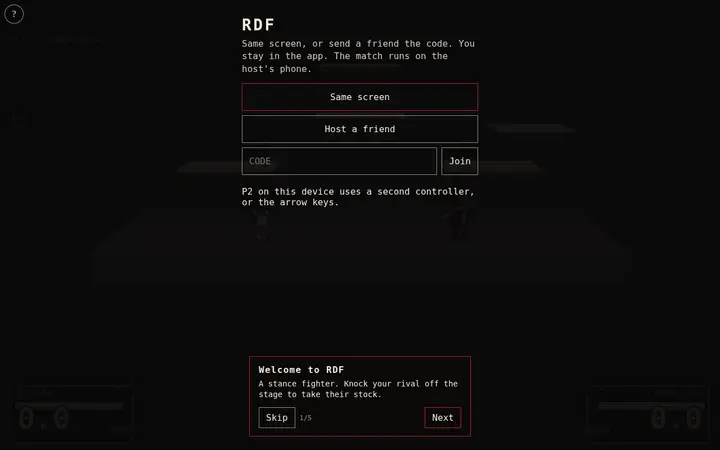
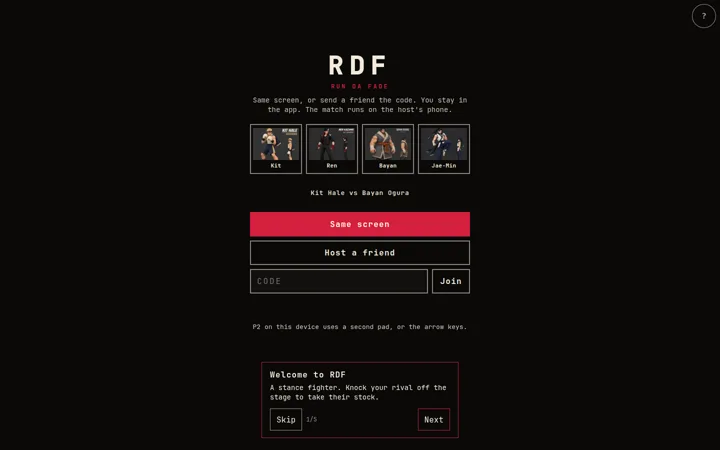
Toy Box: card polish, honest copy, and two recaptured previews
Recapture the near-black BEEP pad and the RDF roster. Fix blurbs
that did not match the live sites. Quieter Soon thumbs, warmer
hover, and a bit more preload. Lockbox crypto untouched.

diff --git a/css/toybox.css b/css/toybox.css
@@ -36,18 +36,21 @@ h1{font-size:clamp(30px,6vw,48px);line-height:1.08;margin:0 0 12px;letter-spacin
 .grid{display:grid;grid-template-columns:repeat(auto-fill,minmax(250px,1fr));gap:16px}
 @media (max-width:720px){.grid{grid-template-columns:1fr 1fr;gap:12px}}
 @media (max-width:400px){.grid{grid-template-columns:1fr;gap:12px}}
-.card{appearance:none;text-align:left;font:inherit;color:inherit;border:1px solid var(--line);background:var(--card);border-radius:var(--r);overflow:hidden;padding:0;cursor:pointer;box-shadow:var(--shadow);transition:transform .28s cubic-bezier(.2,.8,.2,1),box-shadow .28s;display:flex;flex-direction:column;animation:pop .45s cubic-bezier(.2,.8,.2,1) both;animation-delay:calc(var(--i,0)*22ms);content-visibility:auto;contain-intrinsic-size:0 280px;touch-action:manipulation}
-.card:active{transform:scale(.975)}
+.card{appearance:none;text-align:left;font:inherit;color:inherit;border:1px solid var(--line);background:var(--card);border-radius:var(--r);overflow:hidden;padding:0;cursor:pointer;box-shadow:var(--shadow);transition:transform .32s cubic-bezier(.22,.82,.2,1),box-shadow .32s cubic-bezier(.22,.82,.2,1),border-color .25s;display:flex;flex-direction:column;animation:pop .5s cubic-bezier(.22,.82,.2,1) both;animation-delay:calc(min(var(--i,0),8)*20ms);content-visibility:auto;contain-intrinsic-size:0 320px;touch-action:manipulation}
+.card:active{transform:scale(.978)}
 .card:focus-visible,.chip:focus-visible,.btn:focus-visible,.icon-btn:focus-visible,.top-nav a:focus-visible,.foot-links a:focus-visible{outline:3px solid var(--accent);outline-offset:2px}
-@media (hover:hover) and (pointer:fine){.card:hover,.card:focus-visible{transform:translateY(-4px);box-shadow:0 8px 28px color-mix(in srgb,var(--accent) 14%,transparent),var(--shadow)}.card:hover .thumb img,.card:focus-visible .thumb img{transform:scale(1.045)}}
-@keyframes pop{from{opacity:0;transform:translateY(10px) scale(.98)}}
-.thumb{aspect-ratio:16/10;background:linear-gradient(135deg,#f6c38b,#e98b5c 55%,#b8546a);position:relative;overflow:hidden}
-.thumb img{width:100%;height:100%;object-fit:cover;object-position:top;display:block;opacity:0;transition:transform .5s ease,opacity .35s ease}
+@media (hover:hover) and (pointer:fine){.card:hover,.card:focus-visible{transform:translateY(-5px);border-color:color-mix(in srgb,var(--accent) 28%,var(--line));box-shadow:0 10px 32px color-mix(in srgb,var(--accent) 16%,transparent),var(--shadow)}.card:hover .thumb img,.card:focus-visible .thumb img{transform:scale(1.05)}}
+@keyframes pop{from{opacity:0;transform:translateY(12px) scale(.985)}}
+.thumb{aspect-ratio:16/10;background:linear-gradient(145deg,#f6c38b,#e98b5c 52%,#b8546a);position:relative;overflow:hidden}
+.thumb::after{content:"";position:absolute;inset:0;background:linear-gradient(180deg,transparent 62%,rgba(43,29,23,.18));pointer-events:none}
+.thumb img{width:100%;height:100%;object-fit:cover;object-position:top;display:block;opacity:0;transition:transform .55s cubic-bezier(.22,.82,.2,1),opacity .4s ease}
 .thumb img.ready{opacity:1}
-.thumb-empty{display:grid;place-items:center;font-size:30px;font-weight:800;color:rgba(255,255,255,.9);letter-spacing:.04em}
-.thumb .badge{position:absolute;left:10px;top:10px}
-.card-body{padding:12px 14px 14px}
-.card h3{margin:0 0 3px;font-size:16px;line-height:1.25}
+.thumb-empty{display:flex;flex-direction:column;align-items:center;justify-content:center;gap:6px;color:rgba(255,255,255,.92)}
+.thumb-mark{font-size:22px;font-weight:750;letter-spacing:.08em;line-height:1}
+.thumb-soon{font-size:10px;font-weight:700;letter-spacing:.16em;text-transform:uppercase;color:rgba(255,255,255,.72)}
+.thumb .badge{position:absolute;left:10px;top:10px;z-index:1}
+.card-body{padding:13px 14px 15px}
+.card h3{margin:0 0 3px;font-size:16.5px;line-height:1.25;font-weight:700;letter-spacing:-.015em}
 .card .upd{display:block;margin:0 0 4px;font-size:11.5px;color:var(--muted);letter-spacing:.01em}
 .card .upd.fresh{color:var(--live);font-weight:600}
 .card .upd.fresh::before{content:"";display:inline-block;width:6px;height:6px;border-radius:50%;background:var(--live);margin-right:5px;vertical-align:1px}
@@ -58,13 +61,14 @@ h1{font-size:clamp(30px,6vw,48px);line-height:1.08;margin:0 0 12px;letter-spacin
 .b-live{--c:#2f9e6a}.b-prog{--c:#d98a1f}.b-droid{--c:#5b7fd6}.b-dev{--c:#9a8578}.b-lock{--c:#c9506a}
 .muted{color:var(--muted)}.small{font-size:13px}
 .sheet{border:0;padding:0;background:transparent;max-width:none;max-height:none;width:100%;height:100%;margin:0}
-.sheet::backdrop{background:rgba(25,12,6,.45);backdrop-filter:blur(4px)}
-.sheet-inner{position:absolute;left:50%;bottom:0;transform:translateX(-50%);width:min(560px,100%);max-height:92vh;overflow:auto;background:var(--card);color:var(--ink);border-radius:26px 26px 0 0;box-shadow:0 -10px 40px rgba(0,0,0,.25);padding-bottom:env(safe-area-inset-bottom);animation:up .38s cubic-bezier(.2,.9,.2,1)}
-@media (min-width:700px){.sheet-inner{bottom:auto;top:50%;transform:translate(-50%,-50%);border-radius:26px;animation:fade .3s ease}}
-@keyframes up{from{transform:translate(-50%,100%)}}
-@keyframes fade{from{opacity:0;transform:translate(-50%,-46%)}}
+.sheet::backdrop{background:rgba(25,12,6,.5);backdrop-filter:blur(8px) saturate(1.05)}
+.sheet-inner{position:absolute;left:50%;bottom:0;transform:translateX(-50%);width:min(560px,100%);max-height:92vh;overflow:auto;background:var(--card);color:var(--ink);border-radius:28px 28px 0 0;box-shadow:0 -14px 48px rgba(40,18,8,.28);padding-bottom:env(safe-area-inset-bottom);animation:up .42s cubic-bezier(.2,.9,.2,1)}
+.sheet-inner::before{content:"";display:block;width:40px;height:4px;border-radius:999px;background:var(--line);margin:10px auto 0}
+@media (min-width:700px){.sheet-inner{bottom:auto;top:50%;transform:translate(-50%,-50%);border-radius:26px;animation:fade .32s ease}.sheet-inner::before{display:none}}
+@keyframes up{from{transform:translate(-50%,108%)}}
+@keyframes fade{from{opacity:0;transform:translate(-50%,-44%)}}
 .sheet-close{position:absolute;right:12px;top:12px;z-index:2;background:color-mix(in srgb,var(--card) 86%,transparent)}
-.sheet-shot{aspect-ratio:16/10;background:linear-gradient(135deg,#f6c38b,#e98b5c 55%,#b8546a)}
+.sheet-shot{aspect-ratio:16/10;background:linear-gradient(145deg,#f6c38b,#e98b5c 52%,#b8546a)}
 .sheet-shot img{width:100%;height:100%;object-fit:cover;object-position:top;display:block}
 .sheet-body{padding:18px 20px 24px}
 .sheet-meta{display:flex;gap:10px;align-items:center}

diff --git a/js/toybox.js b/js/toybox.js
@@ -70,10 +70,10 @@
   const cardHtml = (p, i) => {
     const eager = i < 6;
     const img = p.image
-      ? `<img src="${esc(p.image)}" alt="" ${eager ? `loading="eager" fetchpriority="${i < 2 ? "high" : "low"}"` : `loading="lazy"`} decoding="async" width="720" height="450">`
-      : `<div class="thumb-empty thumb">${esc(initials(p.name))}</div>`;
+      ? `<img src="${esc(p.image)}" alt="" ${eager ? `loading="eager" fetchpriority="${i < 2 ? "high" : "low"}"` : `loading="lazy"`} decoding="async" width="720" height="450" sizes="(max-width:400px) 100vw,(max-width:720px) 50vw,280px">
+      : `<div class="thumb-empty thumb"><span class="thumb-mark">${esc(initials(p.name))}</span><span class="thumb-soon">Soon</span></div>`;
     return `
-    <button class="card" type="button" style="--i:${i}" data-idx="${i}" aria-label="${esc(p.name)}, ${esc(p.status)}. Open preview">
+    <button class="card" type="button" style="--i:${Math.min(i, 8)}" data-idx="${i}" aria-label="${esc(p.name)}, ${esc(p.status)}. Open preview">
       <div class="thumb">${img}
         <span class="badge ${BADGE[p.status] || ""}">${esc(p.status)}</span></div>
       <div class="card-body"><h3>${esc(p.name)}</h3>${p.lastUpdated ? `<span class="upd${isFresh(p.lastUpdated) ? " fresh" : ""}">Updated ${esc(fmtDate(p.lastUpdated))}</span>` : ""}<p>${esc(p.description)}</p></div>

diff --git a/index.html b/index.html
@@ -15,11 +15,13 @@
   <meta name="twitter:card" content="summary_large_image">
   <link rel="icon" href="/assets/favicon.svg" type="image/svg+xml">
   <link rel="manifest" href="/site.webmanifest">
-  <link rel="preload" href="/css/toybox.css?v=6" as="style">
+  <link rel="preload" href="/css/toybox.css?v=8" as="style">
+  <link rel="preload" href="/js/toybox.js?v=8" as="script">
   <link rel="preload" href="/data/projects.json" as="fetch" crossorigin>
   <link rel="preload" href="/assets/previews/actually-worth-it.webp" as="image">
   <link rel="preload" href="/assets/previews/sprain-games.webp" as="image">
-  <link rel="stylesheet" href="/css/toybox.css?v=6">
+  <link rel="preload" href="/assets/previews/beep.webp" as="image">
+  <link rel="stylesheet" href="/css/toybox.css?v=8">
   <script>
     try {
       var t = localStorage.getItem("toybox-theme");
@@ -98,7 +100,7 @@
     </div>
   </dialog>
 
-  <script src="/js/toybox.js?v=7" defer></script>
+  <script src="/js/toybox.js?v=8" defer></script>
   <script src="/js/private-vault.js?v=6" defer></script>
 </body>
 </html>

diff --git a/CLAUDE_NEXT.md b/CLAUDE_NEXT.md
@@ -12,19 +12,28 @@ A soft, warm project-card hub. The homepage (`index.html` + `css/toybox.css` + `
 
 The older freelance pages (`/work/`, `/about/`, `/contact/`, `css/site.css`) still exist. Do not restyle them unless a Toy Box change breaks a shared link. Keep the homepage as the pretty shelf.
 
-## What the last overnight pass already did
+## What the last two overnight passes already did
 
 Do not redo this work. Build on it.
 
-- Work / About / Contact are reachable on phones (header wraps; footer has the same links). They used to vanish under 560px.
+### Pass 1 (mobile / a11y / nav)
+
+- Work / About / Contact are reachable on phones (header wraps; footer has the same links).
 - Card blurbs stay visible on phones. Two-column grid from 401–720px; one column under 400px.
-- Hover lift only on fine pointers so taps don’t stick. Focus-visible lift + image zoom. Images fade in and fall back to `assets/previews/fallback.svg` if a preview 404s.
-- Skip link, 44px tap targets, filter count announced in a live region, sheet restores focus to the card that opened it, theme-color updates with dark mode.
-- First six card images load eager; CSS + `projects.json` + the first two previews are preloaded. Cache-bust is `?v=6` on toybox CSS and `?v=7` on `toybox.js`.
-- Changing a filter chip scrolls the shelf back into view if you were halfway down the page (so Games no longer drops you on the Lockbox).
-- Lockbox: label is a real `.sr-only`, wrong passcode sets `aria-invalid`, Lock button is focused after unlock. **Crypto is unchanged.**
-- HILO card copy now says it is playable in the browser (Android app still coming). All 19 public `liveUrl`s were 200 when last checked.
+- Hover lift only on fine pointers. Skip link, 44px targets, filter count announced, sheet restores focus, theme-color follows dark mode.
+- Filter chips snap the shelf back into view if you were scrolled down.
 - Hash shortcuts: `#games`, `#sites`, `#tools`, `#recent`, `#lockbox`.
+- Lockbox labels / `aria-invalid` only. **Crypto is unchanged.**
+
+### Pass 2 (cards / copy / speed) — stacked on the same PR
+
+- Card motion: capped stagger (first 8), warmer hover lift + border, image zoom, light fade on the thumb.
+- In-development thumbs are initials + a quiet **Soon** label, not giant type.
+- Preview sheet: grabber on phones, stronger backdrop blur, slightly warmer radius.
+- Recaptured **BEEP** (was almost black; now the pad) and **RDF** (roster with Kit / Ren / Bayan / Jae-Min). Other 17 previews were already honest 720×450 shots of the live pages. Nabu and Launch Kit still show their GitHub repos because that is the `liveUrl`.
+- Copy fixes from the live sites: GRINDEX is Roblox codes (not “on the web”), Respawn HQ is a news desk (not “ops”), ZONEZ is community/chat (not “zone puzzles”), Bando Games / SWEET-D / BEEP match what the pages actually say. Dates were not invented except BEEP + RDF `lastUpdated` to today so the new webps bust the 7-day asset cache.
+- Speed: preload CSS, JS, `projects.json`, and the first three previews; `sizes` on card images; `content-visibility` with a taller intrinsic size.
+- Cache-bust is `?v=8` on toybox CSS/JS.
 
 ## Hard rules (do not break)
 
@@ -33,28 +42,28 @@ Do not redo this work. Build on it.
 - **Never commit** `data/private.json`, the vault password, the numeric PIN, or King's legal name. Public copy is **T0PK1DK** / **King's Toy Box** only. `npm test` scans for forbidden name fragments.
 - **Do not invent URLs.** If a link is dead and you cannot confirm a replacement, leave `liveUrl` as-is or set it `null` and drop status to `In development` — never guess a host.
 - Additive only. No framework, no rewrite of the card renderer, no new build step. `npm test` / `npm run build` must stay green (`scripts/validate.mjs`).
-- Bump `?v=` on `/css/toybox.css` and `/js/toybox.js` (and lockbox JS if you touch it) when you edit them. Cache is 7 days.
+- Bump `?v=` on `/css/toybox.css` and `/js/toybox.js` (and lockbox JS if you touch it) when you edit them. Cache is 7 days. Card images cache-bust with `lastUpdated`.
 - Keep the feeling: **soft, warm, uncluttered**, cream paper in light mode, cocoa dark mode. No neon, no dense dashboards, no stock-SaaS chrome.
 
 ## Design brief for this round
 
-Make the shelf feel more like a toy box and less like a grid of screenshots. Stay quiet.
+The shelf is cleaner. What is still open is **preview honesty** and a little more toy-box, a little less screenshot grid.
 
 Ideas, pick a few — do not do all of them:
 
-1. **Preview quality.** Several `assets/previews/<id>.webp` still look like generic captures or early builds (Stellar Evolution, Launch Kit / GitHub cards, older “Live now.” notes). Recapture only if you can open the live URL and crop a 720px-wide webp. Missing shots already fall back. Do not add stock photos.
-2. **In-development cards.** Initials on the peach/rose gradient are honest but samey. A quieter empty-shelf treatment (same gradient, smaller type, no fake screenshot) would help them sit next to live cards without looking broken.
-3. **Sheet.** The preview dialog works. It could feel more like a physical card pulled off the shelf: slightly warmer radius, a clearer “still being built” state, maybe a swipe-down hint on phones. Keep it one card, one action.
-4. **Type and voice.** System rounded is fine. If you add a font, it must be local or a single system stack — no render-blocking Google Fonts on the homepage. Card titles could use a hair more weight; the hero can stay short.
-5. **Recently updated.** The chip sorts newest first. Dates like `2026-06-01` are placeholders — do not invent fresher dates. If you add an Updates strip, keep it to five honest notes already in `updateNote`.
-6. **Motion.** Stagger + lift is enough. If you add anything, respect `prefers-reduced-motion` (already kills animation/transition). No particle backgrounds.
-7. **Dark mode polish.** Check badge contrast on bright screenshots, sticky chip bar over scrolling cards, and the sheet backdrop. Theme toggle should stay a single icon button.
+1. **BEEP is a dark UI.** The pad crop is readable; the rest of the product is still near-black. A tighter crop of just the pad card (or a lit theme if the site has one) would help the shelf.
+2. **GitHub cards.** Nabu and Launch Kit show github.com chrome. If either gains a Pages demo, recapture that. Do not invent a host.
+3. **Stellar Evolution / RDF / ZONEZ** are menu or login shots. Recapture gameplay or an inside view only if you can click there and the URL stays public.
+4. **In-development empty state.** Initials + Soon is quieter than before. A tiny per-card tint (still the same peach/rose family) would stop ten cards looking identical. No fake screenshots.
+5. **Updates strip.** Five honest `updateNote`s, newest first. Do not invent dates. Many cards still say `2026-06-01`.
+6. **Type.** System rounded is fine. No render-blocking Google Fonts on the homepage.
+7. **Motion.** Stagger + lift is enough. Respect `prefers-reduced-motion`. No particles.
 
 ## Done means
 
 - `npm test` passes.
 - Phone (~390px) and desktop (~1280px) screenshots of the homepage in **light and dark**.
-- A PR with a plain-English list of what changed (and what you left alone).
-- Update this file (`CLAUDE_NEXT.md`) with what you shipped and what is still open, plus a fresh ready-to-paste prompt for the round after you.
+- Push to the open PR if one is already waiting (do not open a second PR for the same shelf pass).
+- Update this file with what you shipped and a fresh ready-to-paste prompt for the round after you.
 
-If you only have time for one thing: **better in-development card empty state + a warmer preview sheet on phones.** Leave the lockbox locked.
+If you only have time for one thing: **tighter BEEP crop + a little color variety on Soon cards.** Leave the lockbox locked.
